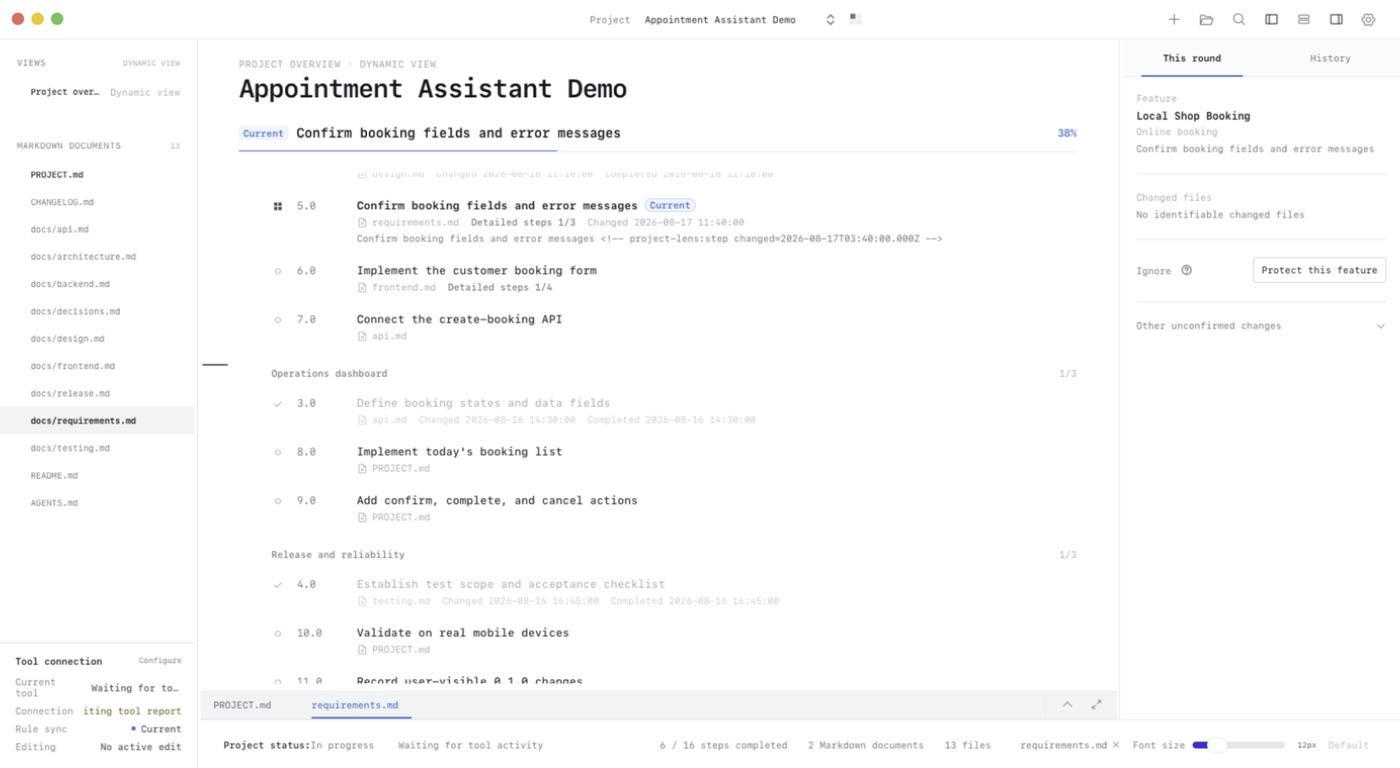
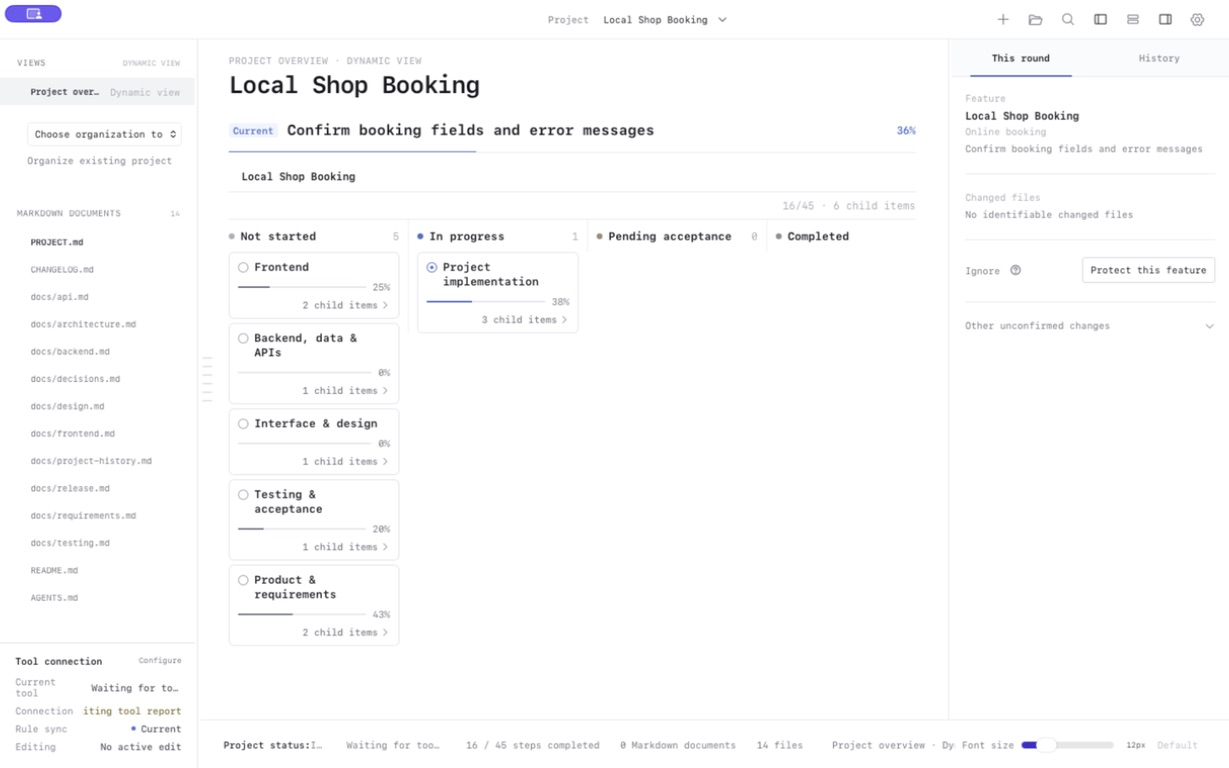
docs: update v0.1.4 guide and screenshots

diff --git a/USAGE.en.md b/USAGE.en.md
@@ -25,9 +25,9 @@ The overview is a live application view, not an `overview.html` file in your pro
 
 ## 2. Understand the workspace
 
-- **Live overview**: project direction, overall progress, current feature, phase, task, and substeps.
+- **Live overview**: four equal columns—Not started, In progress, Pending acceptance, and Completed—show project direction and progress. Open cards with children to enter the next board, then use breadcrumbs to return.
 - **Document list on the left**: the real Markdown files in the project. Selecting one opens it in the document area below.
-- **Markdown area below**: read or edit one document. Selecting a task in the overview opens and highlights its linked content.
+- **Markdown area below**: read or edit one document. A leaf task first shows its source preview; choosing **Open document** opens and highlights the exact linked content. Close the whole dock when it is not needed.
 - **Current round / History on the right**: see which files changed for a feature, then confirm or protect accepted work.
 - **Tool connection at the lower left**: distinguishes file activity from whether code and project documentation are still in sync.
 
@@ -57,7 +57,7 @@ The mapping is simple:
 - Keep only one `[~]` current step in the project.
 - `[[relative/path#heading|Display label]]`: link a task to an exact heading in a real Markdown file.
 
-Selecting a task opens its linked document and location instead of copying all details into the overview.
+Selecting a card with children opens another four-column board. Selecting a leaf task shows a source preview and can open the exact linked Markdown location instead of copying every detail into the overview.
 
 ![Open the exact linked Markdown](./assets/project-lens-linked-document-en.png)
 

diff --git a/USAGE.md b/USAGE.md
@@ -25,9 +25,9 @@
 
 ## 2. 看懂主界面
 
-- **动态总览**：先看项目方向、整体进度、当前功能、阶段、任务和子步骤。
+- **动态总览**：用“未开始 / 进行中 / 待验收 / 已完成”四列看板显示项目方向与进度；点击有子任务的卡片进入下一级，使用面包屑返回。
 - **左侧文档列表**：项目中真实存在的 Markdown 文件。点击后会在下方文档区打开。
-- **下方 Markdown 文档区**：阅读或编辑当前文档；从总览点击任务时，会自动定位并高亮对应内容。
+- **下方 Markdown 文档区**：阅读或编辑当前文档；末级任务先显示即时原文预览，选择“打开文档”后自动定位并高亮对应内容。文档栏不需要时可以整体关闭。
 - **右侧本轮修改 / 历史记录**：查看某个功能本轮改了哪些文件，并确认或保护已经验收的功能。
 - **左下角工具连接**：区分工具是否正在读写项目，以及代码与项目文档是否仍保持同步。
 
@@ -57,7 +57,7 @@
 - 整个项目只保留一个 `[~]` 当前步骤。
 - `[[相对路径#标题|显示名称]]`：把任务连接到真实 Markdown 的具体标题。
 
-点击总览任务后，Project Lens 会打开关联文档并定位到对应内容，而不是把整份详情重复塞进总览。
+点击有子任务的卡片会进入新的四列子看板；点击末级任务会先显示原文预览，再按需打开关联文档并定位到对应内容，而不是把整份详情重复塞进总览。
 
 ![从总览定位到真实 Markdown](./assets/project-lens-linked-document.png)
 

diff --git a/README.en.md b/README.en.md
@@ -40,7 +40,9 @@ Project Lens is a local-first macOS workspace built especially for vibe coding. 
 
 ### 1. Jump from the overview to the exact source document
 
-The overview stays focused on product features, project phases, and primary tasks. Click a task and Project Lens opens its linked Markdown document at the relevant heading or the next unfinished checklist item.
+The overview arranges work into four equal columns: **Not started, In progress, Pending acceptance, and Completed**. Features, phases, and tasks each become a focused card. A card with children opens a new board, while breadcrumbs preserve the full hierarchy without crowding every level onto one page.
+
+Selecting a leaf task shows its Markdown source immediately. Choose **Open document** to open the real file in the dock and jump to the exact heading or checklist item. The document dock can be closed without changing the project overview.
 
 ```text
 “Confirm booking fields and error messages” in the overview
@@ -52,7 +54,7 @@ Locate “Booking form” and its acceptance criteria
 
 ![Opening and locating linked English Markdown from an overview task](assets/project-lens-linked-document-en.png)
 
-People see the direction first and open details only when needed. AI tools can follow the same links to the document they are expected to maintain.
+People follow the board for direction and open details only when needed. AI tools can follow the same links to the document they are expected to maintain.
 
 ### 2. Understand the current round and version history
 
